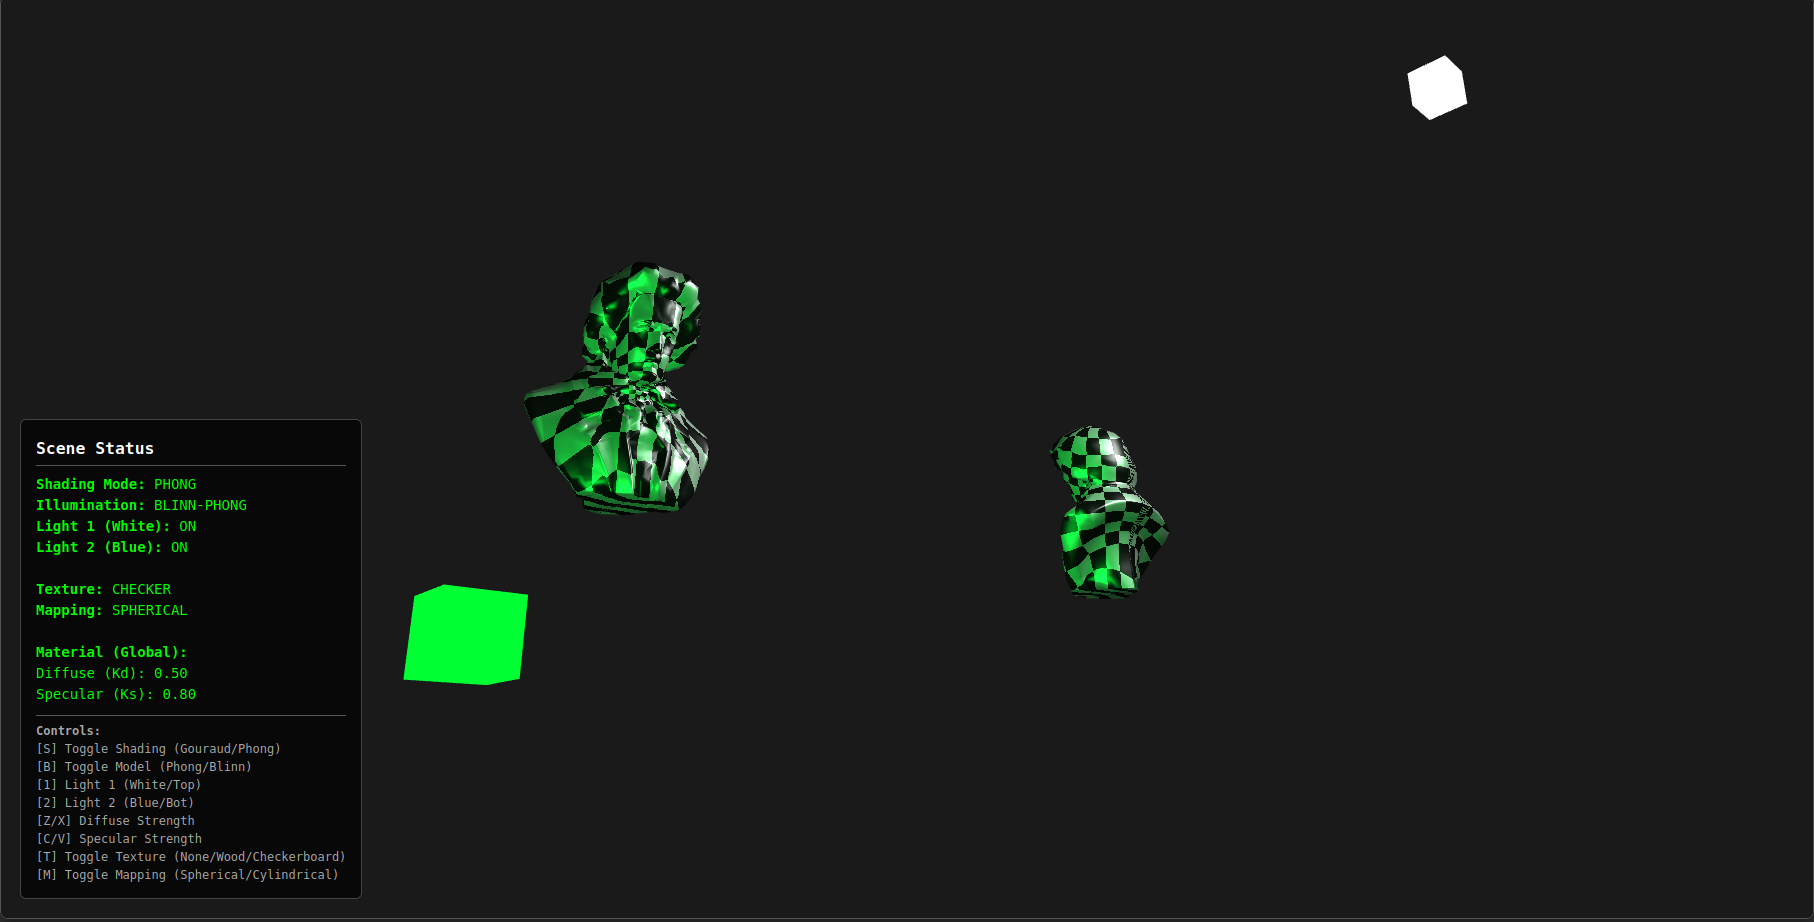
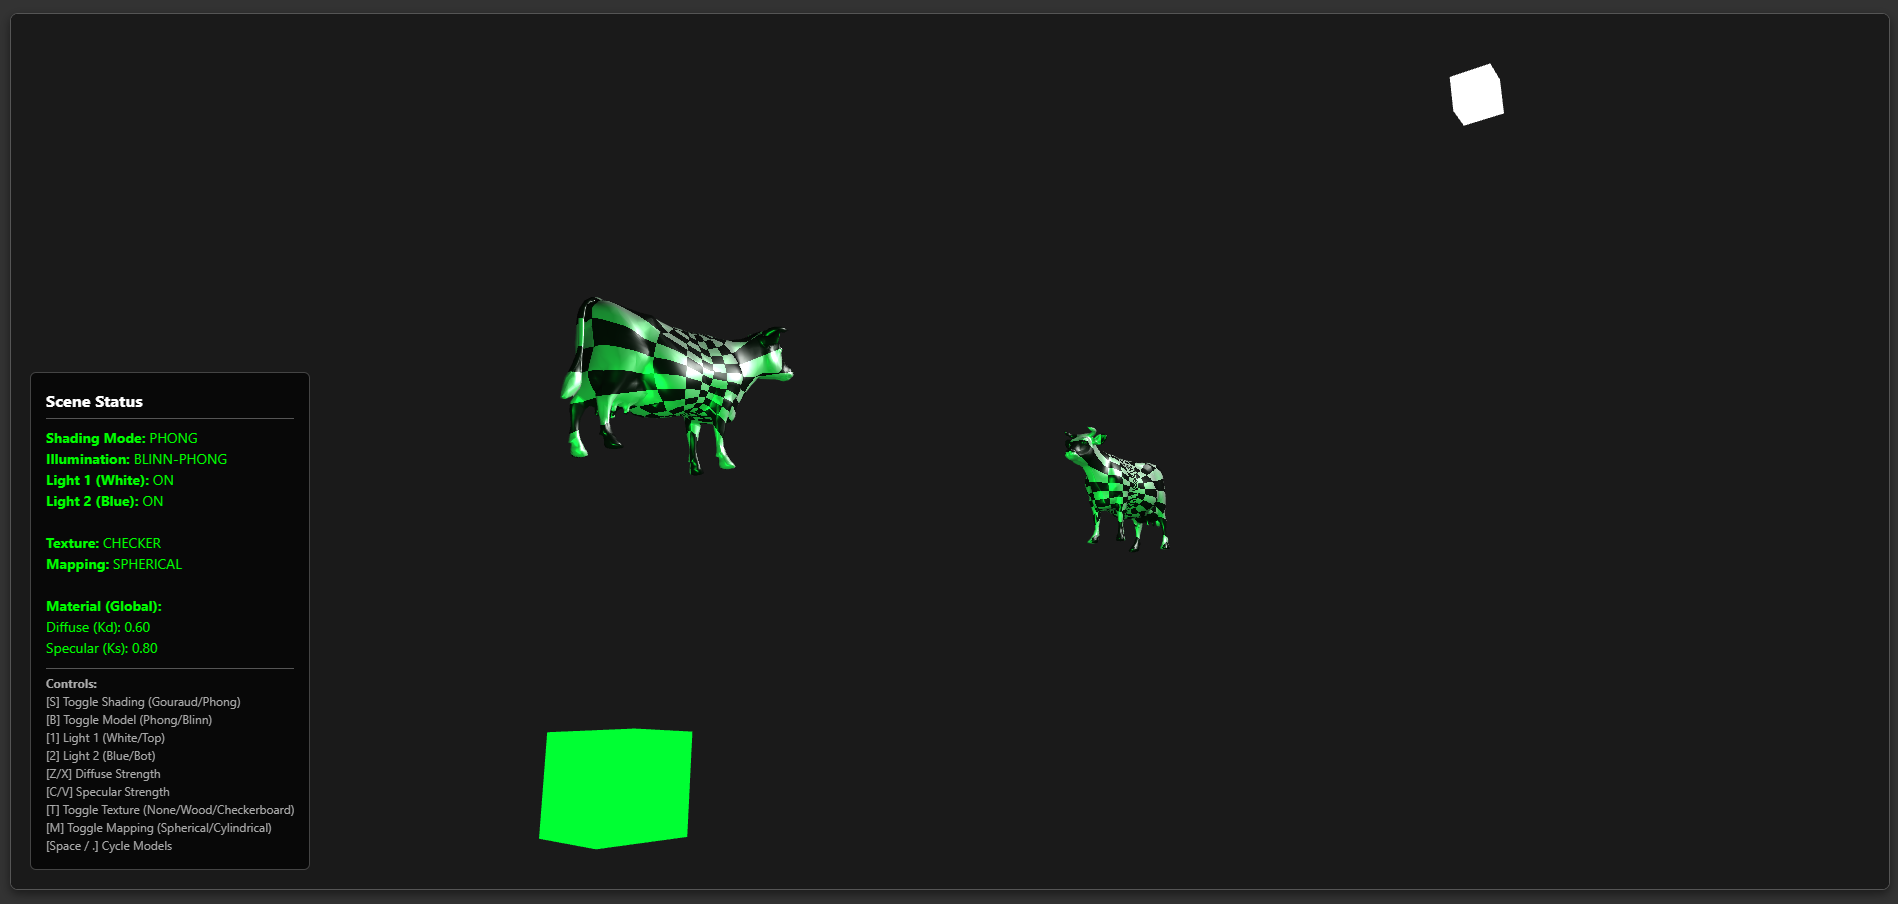
add cycle models option

diff --git a/A3/src/index.js b/A3/src/index.js
@@ -46,17 +46,32 @@ async function main() {
     const gl = canvas.getContext("webgl2");
     if (!gl) return alert("WebGL2 missing");
 
-    // 1. Load Geometry
-    let meshBuffers;
-    let lightCubeBuffers;
-    try {
-        const plyData = await loadPLY('../assets/stratocaster.ply');
-        meshBuffers = initBuffers(gl, plyData);
-        lightCubeBuffers = initCubeBuffers(gl);
-    } catch (e) {
-        console.error(e);
-        return;
+    // 1. Setup Global Mesh Buffer Variable
+    let meshBuffers = null;
+    let lightCubeBuffers = initCubeBuffers(gl); // Initialize immediately
+
+    // --- NEW: Function to load model by index ---
+    async function loadCurrentModel() {
+        const filename = appState.modelList[appState.currentModelIndex];
+        console.log(`Loading: ${filename}...`);
+
+        try {
+            // Assume assets are in the parent folder, adjust path if needed
+            const plyData = await loadPLY(`../assets/${filename}`);
+
+            // Create new buffers
+            const newBuffers = initBuffers(gl, plyData);
+
+            // Atomic swap (prevents flickering/crashes during render loop)
+            meshBuffers = newBuffers;
+            console.log("Model loaded successfully.");
+        } catch (e) {
+            console.error("Failed to load model:", e);
+        }
     }
+
+    // Initial Load
+    await loadCurrentModel();
 
     // 2. Initialize Programs
     gouraudProgram = createProgram(gl, vsGouraud, fsGouraud);
@@ -67,17 +82,24 @@ async function main() {
     woodTexture = loadTexture(gl, '../assets/textures/wood-grain_texture.jpg');
     checkerTexture = loadTexture(gl, '../assets/textures/checkerboard_texture.jpg');
 
-    setupControls(canvas);
+    // --- PASS THE LOAD FUNCTION TO CONTROLS ---
+    setupControls(canvas, loadCurrentModel);
     updateUI();
 
     function render(time) {
+        // Ensure we don't render before the first model is loaded
+        if (!meshBuffers) {
+            requestAnimationFrame(render);
+            return;
+        }
+
         resizeCanvasToDisplaySize(gl.canvas);
         gl.viewport(0, 0, gl.canvas.width, gl.canvas.height);
         gl.clearColor(0.1, 0.1, 0.1, 1.0);
         gl.clear(gl.COLOR_BUFFER_BIT | gl.DEPTH_BUFFER_BIT);
         gl.enable(gl.DEPTH_TEST);
 
-        // --- Common Matrices ---
+        // ... (Keep your existing Matrix setup code here) ...
         const fieldOfView = 45 * Math.PI / 180;
         const aspect = gl.canvas.clientWidth / gl.canvas.clientHeight;
         mat4.perspective(projectionMatrix, fieldOfView, aspect, 0.1, 100.0);
@@ -91,38 +113,27 @@ async function main() {
         const program = (appState.shadingMode === 'gouraud') ? gouraudProgram : phongProgram;
         gl.useProgram(program);
 
-        // --- TEXTURE SETUP (FIXED) ---
+        // ... (Keep your Texture Setup code here) ...
         const useTexture = (appState.texture !== 'none');
-        
         if (useTexture) {
-            // Determine which texture to use
             const tex = (appState.texture === 'wood') ? woodTexture : checkerTexture;
-            
-            // Determine mapping type: 1=spherical, 2=cylindrical
             const texMappingVal = (appState.texMapping === 'spherical') ? 1 : 2;
-            
-            // Bind texture to texture unit 0
             gl.activeTexture(gl.TEXTURE0);
             gl.bindTexture(gl.TEXTURE_2D, tex);
-            
-            // Set uniforms for VERTEX shader (generates tex coords)
             gl.uniform1i(gl.getUniformLocation(program, 'u_texture'), 0);
             gl.uniform1i(gl.getUniformLocation(program, 'u_texMapping'), texMappingVal);
-            
-            // Set uniform for FRAGMENT shader (uses texture)
             gl.uniform1i(gl.getUniformLocation(program, 'u_useTexture'), 1);
         } else {
-            // No texture
             gl.uniform1i(gl.getUniformLocation(program, 'u_texMapping'), 0);
             gl.uniform1i(gl.getUniformLocation(program, 'u_useTexture'), 0);
         }
 
-        // Set Blinn-Phong toggle (only for Phong shader)
         if (appState.shadingMode === 'phong') {
             gl.uniform1i(gl.getUniformLocation(program, 'u_useBlinn'), appState.useBlinn ? 1 : 0);
         }
 
         appState.objects.forEach(obj => {
+            // ... (Keep your Object Matrix/Uniform code here) ...
             mat4.identity(modelMatrix);
             mat4.translate(modelMatrix, modelMatrix, obj.position);
             mat4.rotate(modelMatrix, modelMatrix, obj.rotation.x * Math.PI / 180, [1, 0, 0]);
@@ -136,46 +147,39 @@ async function main() {
             gl.uniformMatrix4fv(gl.getUniformLocation(program, 'u_projectionMatrix'), false, projectionMatrix);
             gl.uniformMatrix3fv(gl.getUniformLocation(program, 'u_normalMatrix'), false, normalMatrix);
 
-            // Light Loop
+            // Lights and Material Uniforms
             for (let i = 0; i < 2; i++) {
                 const light = appState.lights[i];
                 const effectiveColor = (appState.showLights && light && light.enabled) ? light.color : [0, 0, 0];
-
                 const lightPosView = vec3.create();
                 if (light) vec3.transformMat4(lightPosView, light.position, viewMatrix);
-
                 gl.uniform3fv(gl.getUniformLocation(program, `u_lights[${i}].position`), lightPosView);
                 gl.uniform3fv(gl.getUniformLocation(program, `u_lights[${i}].color`), effectiveColor);
             }
-
-            // Material
             gl.uniform3fv(gl.getUniformLocation(program, 'u_objectColor'), obj.color);
             gl.uniform1f(gl.getUniformLocation(program, 'u_ka'), appState.material.ka);
             gl.uniform1f(gl.getUniformLocation(program, 'u_kd'), appState.material.kd);
             gl.uniform1f(gl.getUniformLocation(program, 'u_ks'), appState.material.ks);
             gl.uniform1f(gl.getUniformLocation(program, 'u_shininess'), obj.material.shininess);
 
+            // DRAW
             gl.bindVertexArray(meshBuffers.vao);
             gl.drawElements(gl.TRIANGLES, meshBuffers.elementCount, gl.UNSIGNED_SHORT, 0);
         });
 
-        // --- PART B: Draw Lights (Cubes) ---
+        // --- PART B: Draw Lights ---
+        // ... (Keep your Light Drawing code here - unchanged) ...
         if (appState.showLights) {
             gl.useProgram(simpleProgram);
-
             appState.lights.forEach(light => {
                 if (!light.enabled) return;
-
                 mat4.identity(modelMatrix);
                 mat4.translate(modelMatrix, modelMatrix, light.position);
                 mat4.scale(modelMatrix, modelMatrix, [0.2, 0.2, 0.2]);
-
                 mat4.multiply(modelViewMatrix, viewMatrix, modelMatrix);
-
                 gl.uniformMatrix4fv(gl.getUniformLocation(simpleProgram, 'u_modelViewMatrix'), false, modelViewMatrix);
                 gl.uniformMatrix4fv(gl.getUniformLocation(simpleProgram, 'u_projectionMatrix'), false, projectionMatrix);
                 gl.uniform3fv(gl.getUniformLocation(simpleProgram, 'u_color'), light.color);
-
                 gl.bindVertexArray(lightCubeBuffers.vao);
                 gl.drawElements(gl.TRIANGLES, lightCubeBuffers.elementCount, gl.UNSIGNED_SHORT, 0);
             });
@@ -186,72 +190,64 @@ async function main() {
     requestAnimationFrame(render);
 }
 
-function setupControls(canvas) {
+// Updated setupControls to accept the loader callback
+function setupControls(canvas, loadModelCallback) {
     let isDragging = false;
     let lastX = 0, lastY = 0;
     canvas.addEventListener('mousedown', e => { isDragging = true; lastX = e.clientX; lastY = e.clientY; });
     window.addEventListener('mouseup', () => isDragging = false);
-    canvas.addEventListener('mousemove', e => { 
-        if (!isDragging) return; 
-        appState.rotation.y += (e.clientX - lastX) * 0.01; 
-        appState.rotation.x += (e.clientY - lastY) * 0.01; 
-        lastX = e.clientX; 
-        lastY = e.clientY; 
+    canvas.addEventListener('mousemove', e => {
+        if (!isDragging) return;
+        appState.rotation.y += (e.clientX - lastX) * 0.01;
+        appState.rotation.x += (e.clientY - lastY) * 0.01;
+        lastX = e.clientX;
+        lastY = e.clientY;
     });
-    canvas.addEventListener('wheel', e => { 
-        e.preventDefault(); 
-        appState.camera.z -= e.deltaY * 0.01; 
+    canvas.addEventListener('wheel', e => {
+        e.preventDefault();
+        appState.camera.z -= e.deltaY * 0.01;
     }, { passive: false });
 
     // --- KEYBOARD CONTROLS ---
     window.addEventListener('keydown', (e) => {
         switch (e.key.toLowerCase()) {
+            case ' ': // Spacebar to cycle models
+            case '.': // Or the dot key
+                appState.currentModelIndex = (appState.currentModelIndex + 1) % appState.modelList.length;
+                loadModelCallback(); // Calls the function inside main
+                break;
+
             case 's':
-                // Toggle Shading Mode (Gouraud vs Phong)
                 appState.shadingMode = (appState.shadingMode === 'gouraud') ? 'phong' : 'gouraud';
-                console.log("Shading:", appState.shadingMode);
                 break;
             case 'b':
-                // Toggle Illumination Math (Phong vs Blinn-Phong)
                 appState.useBlinn = !appState.useBlinn;
-                console.log("Use Blinn:", appState.useBlinn);
                 break;
             case '1':
                 appState.lights[0].enabled = !appState.lights[0].enabled;
-                console.log("Light 1:", appState.lights[0].enabled);
                 break;
             case '2':
                 appState.lights[1].enabled = !appState.lights[1].enabled;
-                console.log("Light 2:", appState.lights[1].enabled);
                 break;
-            // Material Strength Controls
-            case 'z': 
-                appState.material.kd = Math.min(1.0, appState.material.kd + 0.1); 
-                console.log("Kd:", appState.material.kd.toFixed(2));
+            case 'z':
+                appState.material.kd = Math.min(1.0, appState.material.kd + 0.1);
                 break;
-            case 'x': 
-                appState.material.kd = Math.max(0.0, appState.material.kd - 0.1); 
-                console.log("Kd:", appState.material.kd.toFixed(2));
+            case 'x':
+                appState.material.kd = Math.max(0.0, appState.material.kd - 0.1);
                 break;
-            case 'c': 
-                appState.material.ks = Math.min(1.0, appState.material.ks + 0.1); 
-                console.log("Ks:", appState.material.ks.toFixed(2));
+            case 'c':
+                appState.material.ks = Math.min(1.0, appState.material.ks + 0.1);
                 break;
-            case 'v': 
-                appState.material.ks = Math.max(0.0, appState.material.ks - 0.1); 
-                console.log("Ks:", appState.material.ks.toFixed(2));
+            case 'v':
+                appState.material.ks = Math.max(0.0, appState.material.ks - 0.1);
                 break;
-            case 't': 
-                // Toggle texture
+            case 't':
                 if (appState.texture === 'none') appState.texture = 'wood';
                 else if (appState.texture === 'wood') appState.texture = 'checker';
                 else appState.texture = 'none';
-                console.log("Texture:", appState.texture);
                 break;
-            case 'm': 
-                // Toggle mapping mode
+            case 'm':
                 appState.texMapping = (appState.texMapping === 'spherical') ? 'cylindrical' : 'spherical';
-                console.log("Mapping:", appState.texMapping);
                 break;
         }
 

diff --git a/A3/src/state.js b/A3/src/state.js
@@ -3,10 +3,35 @@ export const appState = {
     useBlinn: true,       // true = Blinn-Phong, false = Standard Phong
     camera: { z: -5.0, min: -2.0, max: -20.0 },
     texture: 'none', // Add: 'none', 'wood', 'checker'
-    texMapping: 'spherical', 
+    texMapping: 'spherical',
 
     // Lighting Toggle
     showLights: true,
+
+    modelList: [
+        'beethoven.ply',
+        'hind.ply',
+        'ant.ply',
+        'airplane.ply',
+        'balance.ply',
+        'big_atc.ply',
+        'big_dodge.ply',
+        'big_porsche.ply',
+        'big_spider.ply',
+        'canstick.ply',
+        'chopper.ply',
+        'cow.ply',
+        'cube.ply',
+        'dart.ply',
+        'dodecahedron.ply',
+        'egret.ply',
+        'ellell.ply',
+        'egret.ply',
+        'f16.ply',
+        'footbones.ply',
+        'fracttree.ply',
+    ],
+    currentModelIndex: 0,
 
     // Global Light Settings
     lights: [

diff --git a/A3/index.html b/A3/index.html
@@ -112,7 +112,8 @@
                     [Z/X] Diffuse Strength<br>
                     [C/V] Specular Strength <br>
                     [T] Toggle Texture (None/Wood/Checkerboard) <br>
-                    [M] Toggle Mapping (Spherical/Cylindrical)
+                    [M] Toggle Mapping (Spherical/Cylindrical) <br>
+                    [Space / .] Cycle Models
                 </div>
             </div>
         </div>

diff --git a/A3/readme.md b/A3/readme.md
@@ -1,11 +1,10 @@
 # Assignment 3
 
-A WebGL application demonstrating 3D object rendering with various shading techniques.
+A WebGL application demonstrating 3D object rendering with various shading and texturing techniques.
 
 ## Screenshot
 
 ![A3 Screenshot](ss.png)
-
 
 ## About
 
@@ -43,3 +42,6 @@ A WebGL application demonstrating 3D object rendering with various shading techn
 - `C` / `V`: Increase/Decrease Specular Strength.
 - `Mouse`: Rotate scene.
 - `Scroll`: Zoom.
+- `T`: Toggle Texture (None/Wood/Checkerboard).
+- `M`: Toggle Mapping (Spherical/Cylindrical).
+- `Space` / `.`: Cycle Models.
